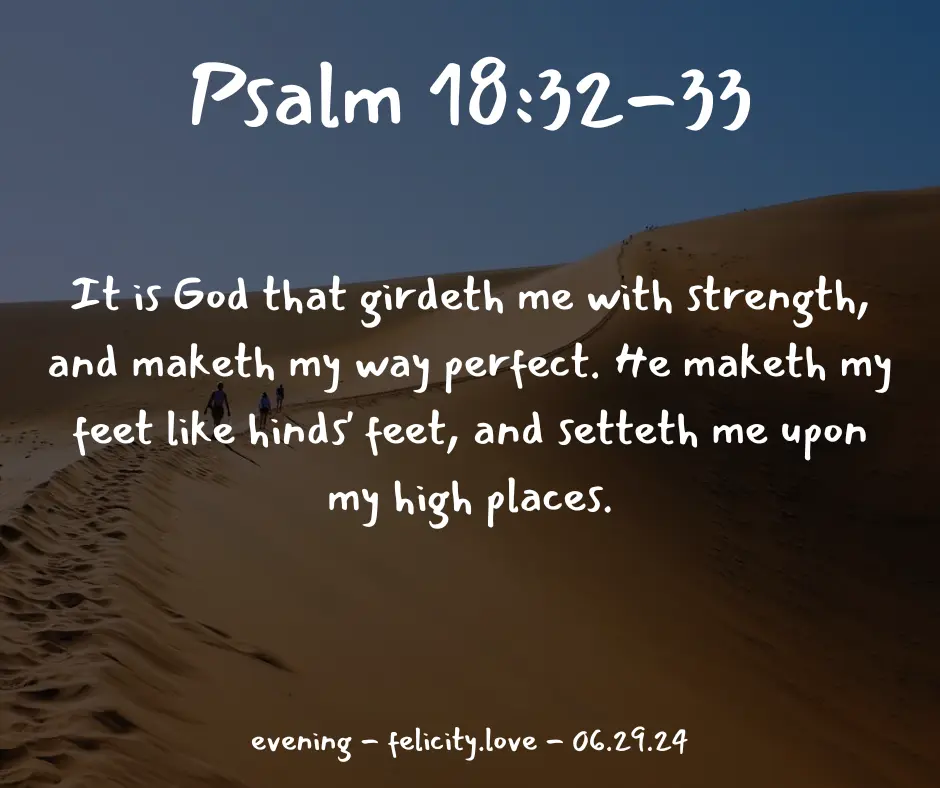
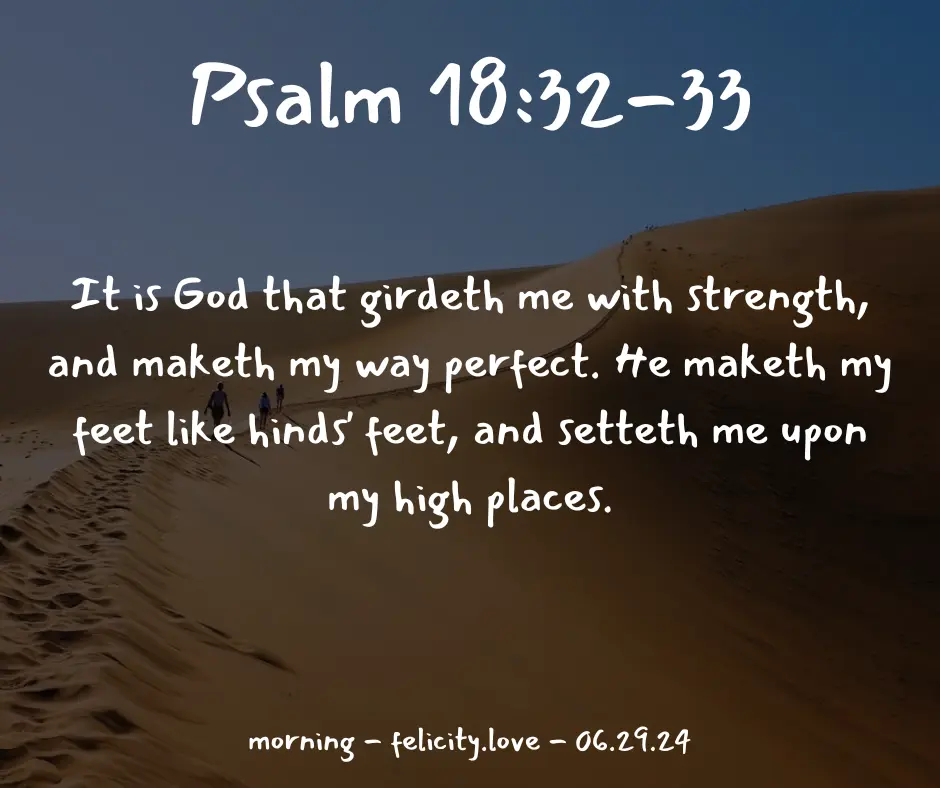
june 29th 2024 evening devtional

Changed region(s): [[0.2777, 0.9137, 0.7404, 0.9746]]

diff --git a/_posts/2024-06-29-evening.md b/_posts/2024-06-29-evening.md
@@ -1,0 +1,22 @@
+---
+layout: post
+author: Joey
+date: 2024-06-29 15:20:00 -0500
+featured_image: "/img/062924_daily_devotional_night.webp"
+title: June 29th 2024 - Evening Devotional
+---
+
+[![June 29th 2024 - Evening Devotional](/img/062924_daily_devotional_night.webp)](/img/062924_daily_devotional_night.webp)
+
+<!-- verse -->
+
+John 6:29
+
+Jesus answered and said unto them, This is the work of God, that ye believe on him whom he hath sent.
+
+<!-- ad / promo -->
+<!-- <hr>
+
+Please consider purchasing a mug to support the page by clicking the image below, thank you!
+
+[![June 19th 2024 - Evening Devotional - Mug](/img/mugs/061124_morning_mug.webp)](https://www.joeybrinkman.com/shop) -->
